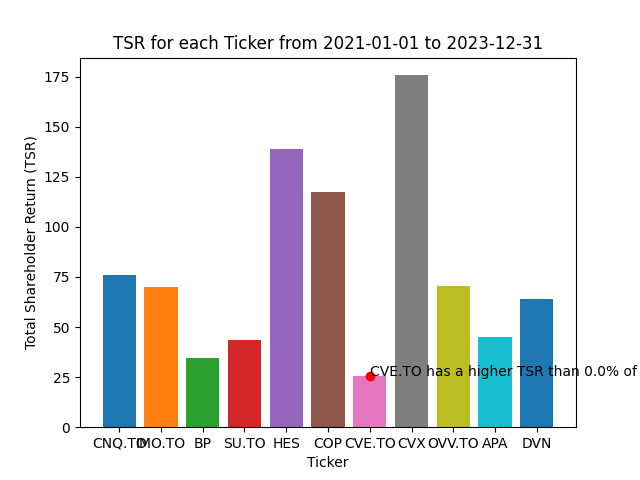
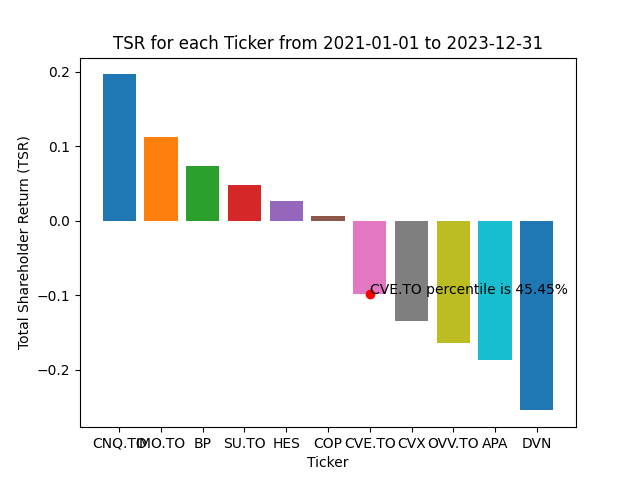
Added percentile rank to the output

diff --git a/RankTSR.py b/RankTSR.py
@@ -51,6 +51,10 @@ def calculate_tsr(tickers, price_data_df, dividend_data_df, start_date, end_date
         tsr_list.append([ticker, starting_vwap['VWAP'].values[0],
                          ending_vwap['VWAP'].values[0], dividends_total, tsr])
 
+    # calculate the percentile rank of each ticker using the TSR
+    tsr_list = pd.DataFrame(tsr_list, columns=['Ticker', 'Start VWAP', 'End VWAP', 'Dividends', 'TSR'])
+    tsr_list['Rank'] = tsr_list['TSR'].rank(pct=True)
+
     return tsr_list
 
 
@@ -144,32 +148,28 @@ if __name__ == "__main__":
         tsr_list = calculate_tsr(tickers, price_data_df, dividend_data_df, tsr_period[1], tsr_period[2])
 
         # sort the list by decending tsr to print a table of tickers and their TSR
-        tsr_list.sort(key=lambda x: x[4], reverse=True)
+        tsr_sorted = tsr_list.sort_values(by='TSR', ascending=False)
 
-        # print the rank of each ticker by TSR
-        print(tabulate(tsr_list, headers=['Ticker', 'Start VWAP', 'End VWAP', 'Dividends', 'TSR'],
+        # print the rank of each ticker by TSR 
+        print(tabulate(tsr_sorted, headers=['Ticker', 'Start VWAP', 'End VWAP', 'Dividends', 'TSR', 'Rank'],
                        tablefmt='fancy_grid'))
 
-        # Convert the list into a dictionary
-        tsr_list = {x[0]: x[1] for x in tsr_list}
+        CVE_Rank = tsr_list.loc[tsr_list['Ticker'] == 'CVE.TO', 'Rank'].values[0]
+        CVE_Rank = f"{CVE_Rank*100:.2f}%"
 
-        # calculate the number of tickers in the list where ticker 'CVE.TO' has a higher TSR than the others
-        count = sum(1 for ticker, tsr in tsr_list.items() if tsr < tsr_list['CVE.TO'])
-
-        print("CVE.TO has a higher TSR than", count / (len(tsr_list)-1) * 100,
-              "% of it\'s peers for period", tsr_period[0], ".\n\n")
+        # print the TSR vaule from tsr_list for ticker CVE.TO
+        print("The percentile rank for CVE.TO is", CVE_Rank, "\n\n")
 
         # Loop through each ticker and plot the tsr values
-        for ticker, tsr in tsr_list.items():
+        for ticker, tsr in tsr_sorted[['Ticker', 'TSR']].values:
             plt.bar(ticker, tsr)
         plt.xlabel('Ticker')
         plt.ylabel('Total Shareholder Return (TSR)')
         plt.title('TSR for each Ticker from ' + start_date.strftime("%Y-%m-%d") + ' to ' +
                   end_date.strftime("%Y-%m-%d"))
-        plt.scatter('CVE.TO', tsr_list['CVE.TO'], marker='o', color='red')
-        plt.text('CVE.TO', tsr_list['CVE.TO'], 'CVE.TO has a higher TSR than ' +
-                 str(count / (len(tsr_list)-1) * 100) +
-                 '% of it\'s peers.', fontsize=10, color='black')
+        plt.scatter('CVE.TO', tsr_list.loc[tsr_list['Ticker'] == 'CVE.TO', 'TSR'].values[0], marker='o', color='red')
+        plt.text('CVE.TO', tsr_list.loc[tsr_list['Ticker'] == 'CVE.TO', 'TSR'].values[0], 
+                 'CVE.TO percentile is ' + CVE_Rank, fontsize=10, color='black')
         # save the chart to a file
         plt.savefig('tsr_chart_' + tsr_period[0] + '.png')
         # plt.show()
